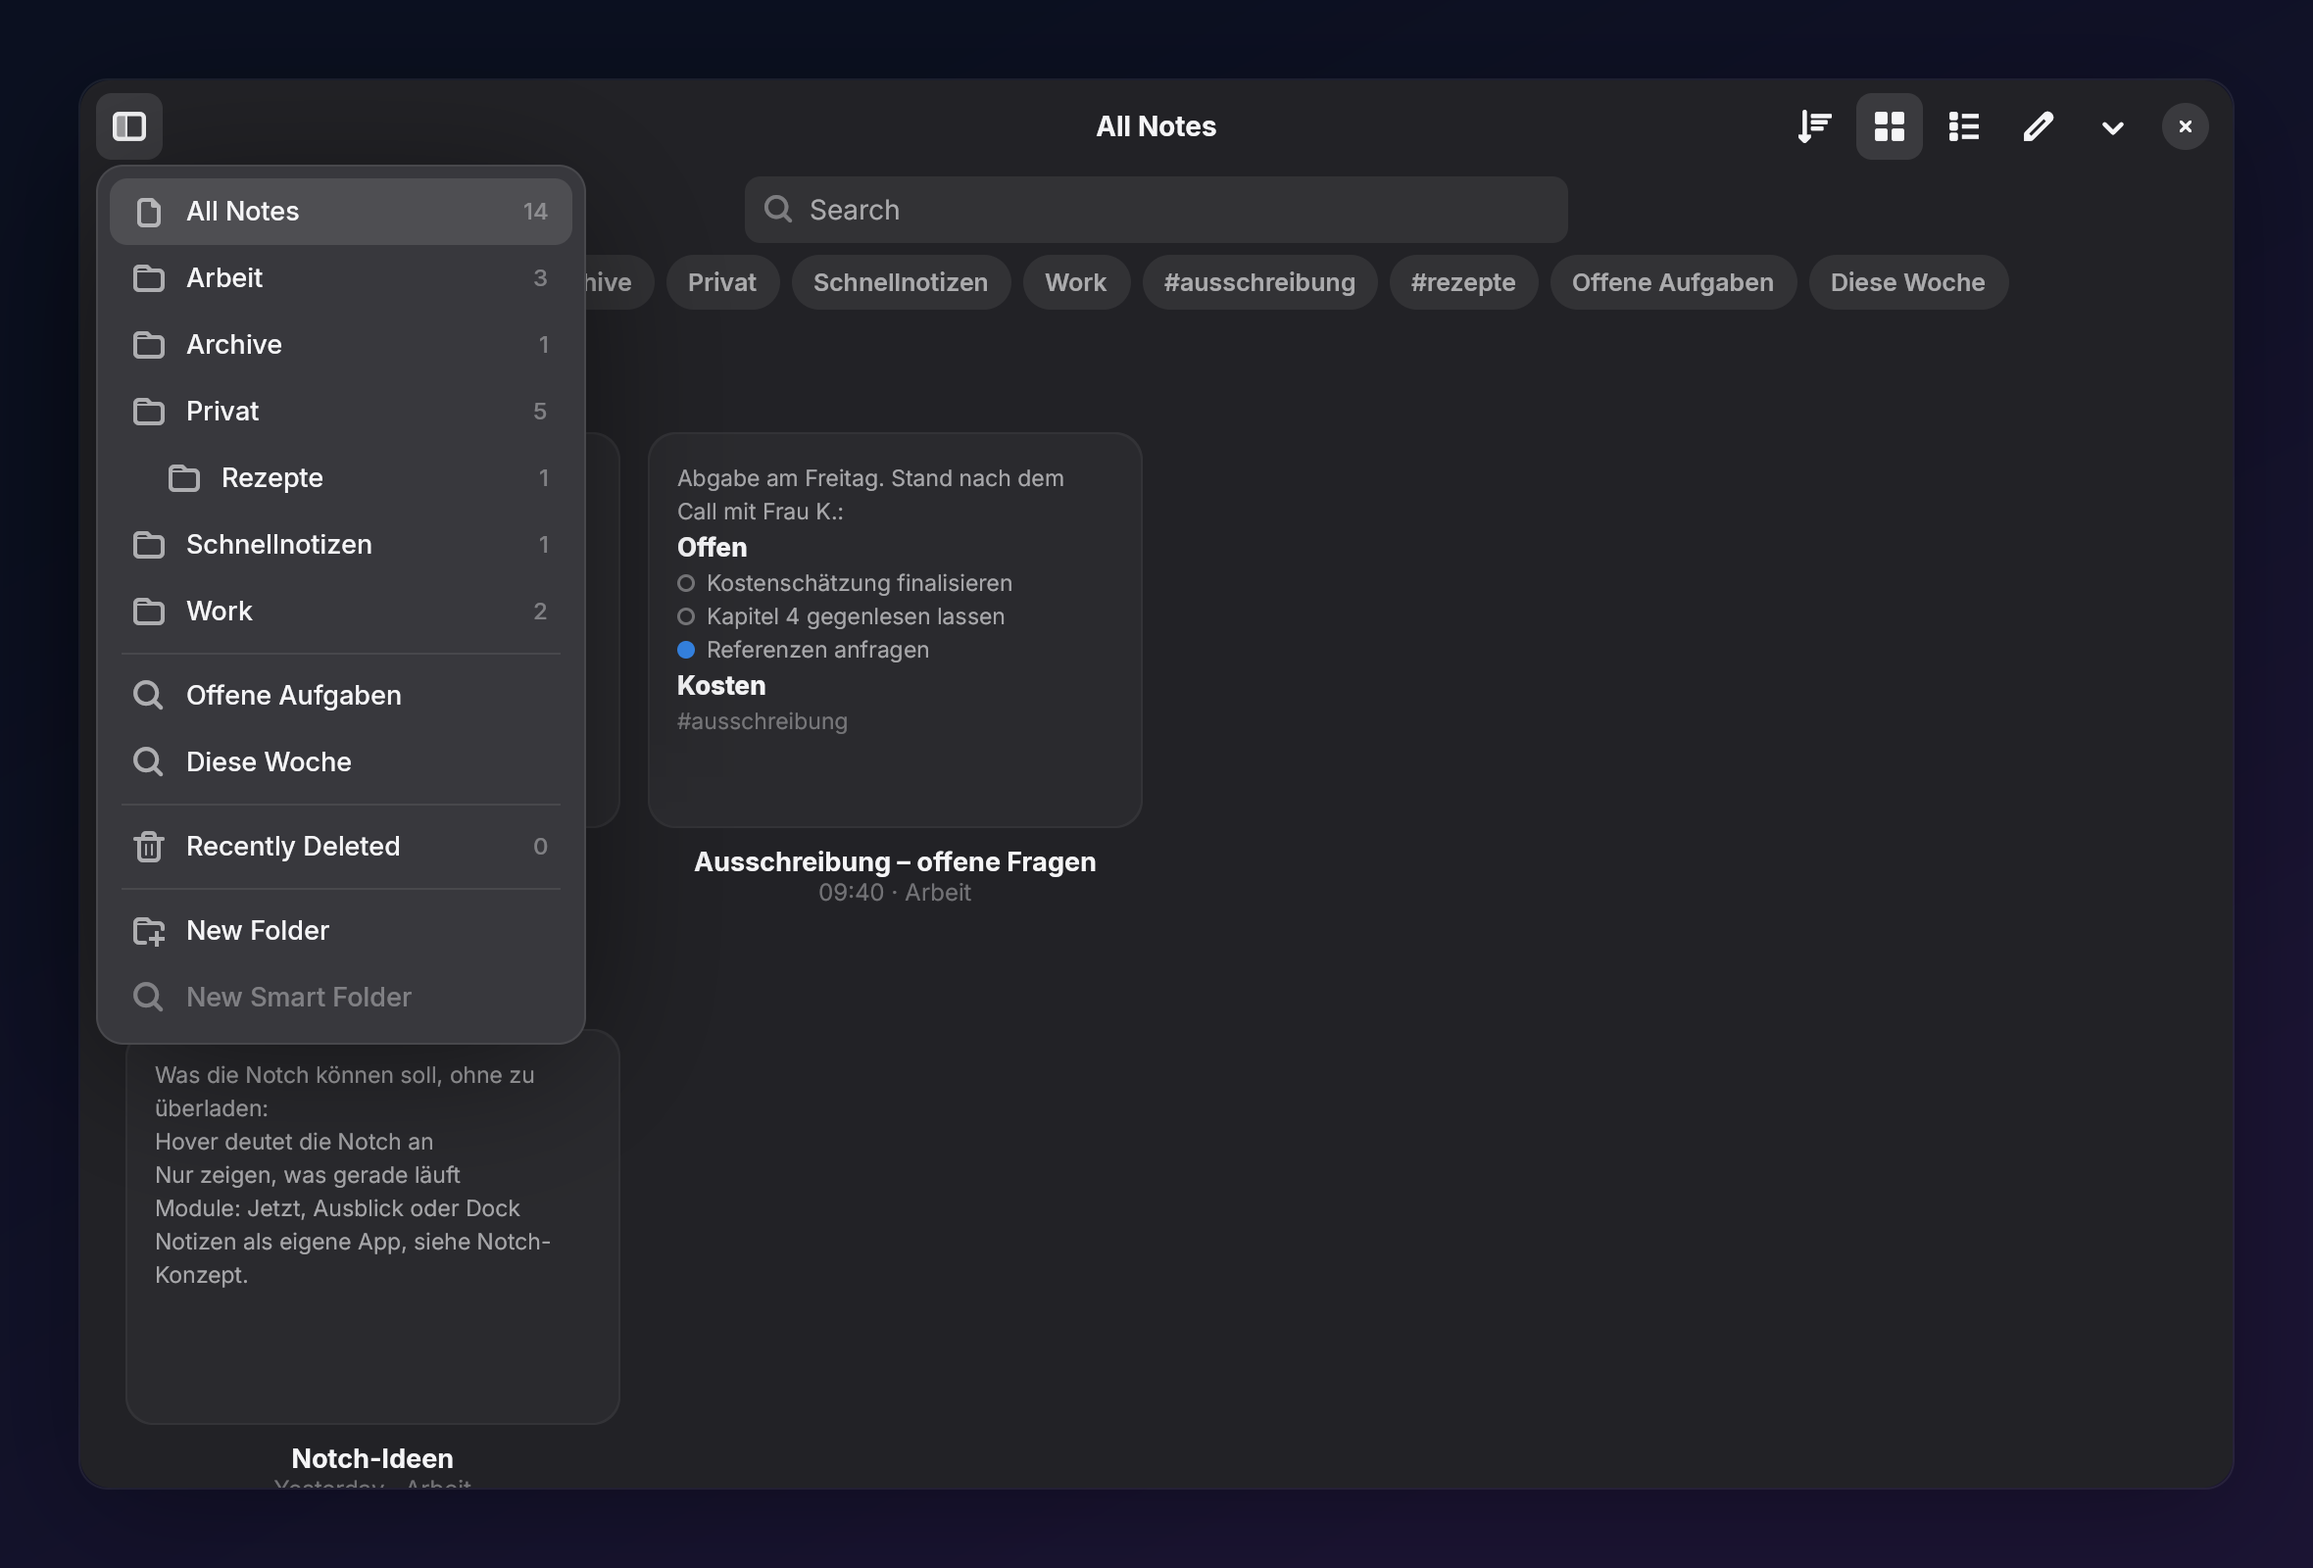
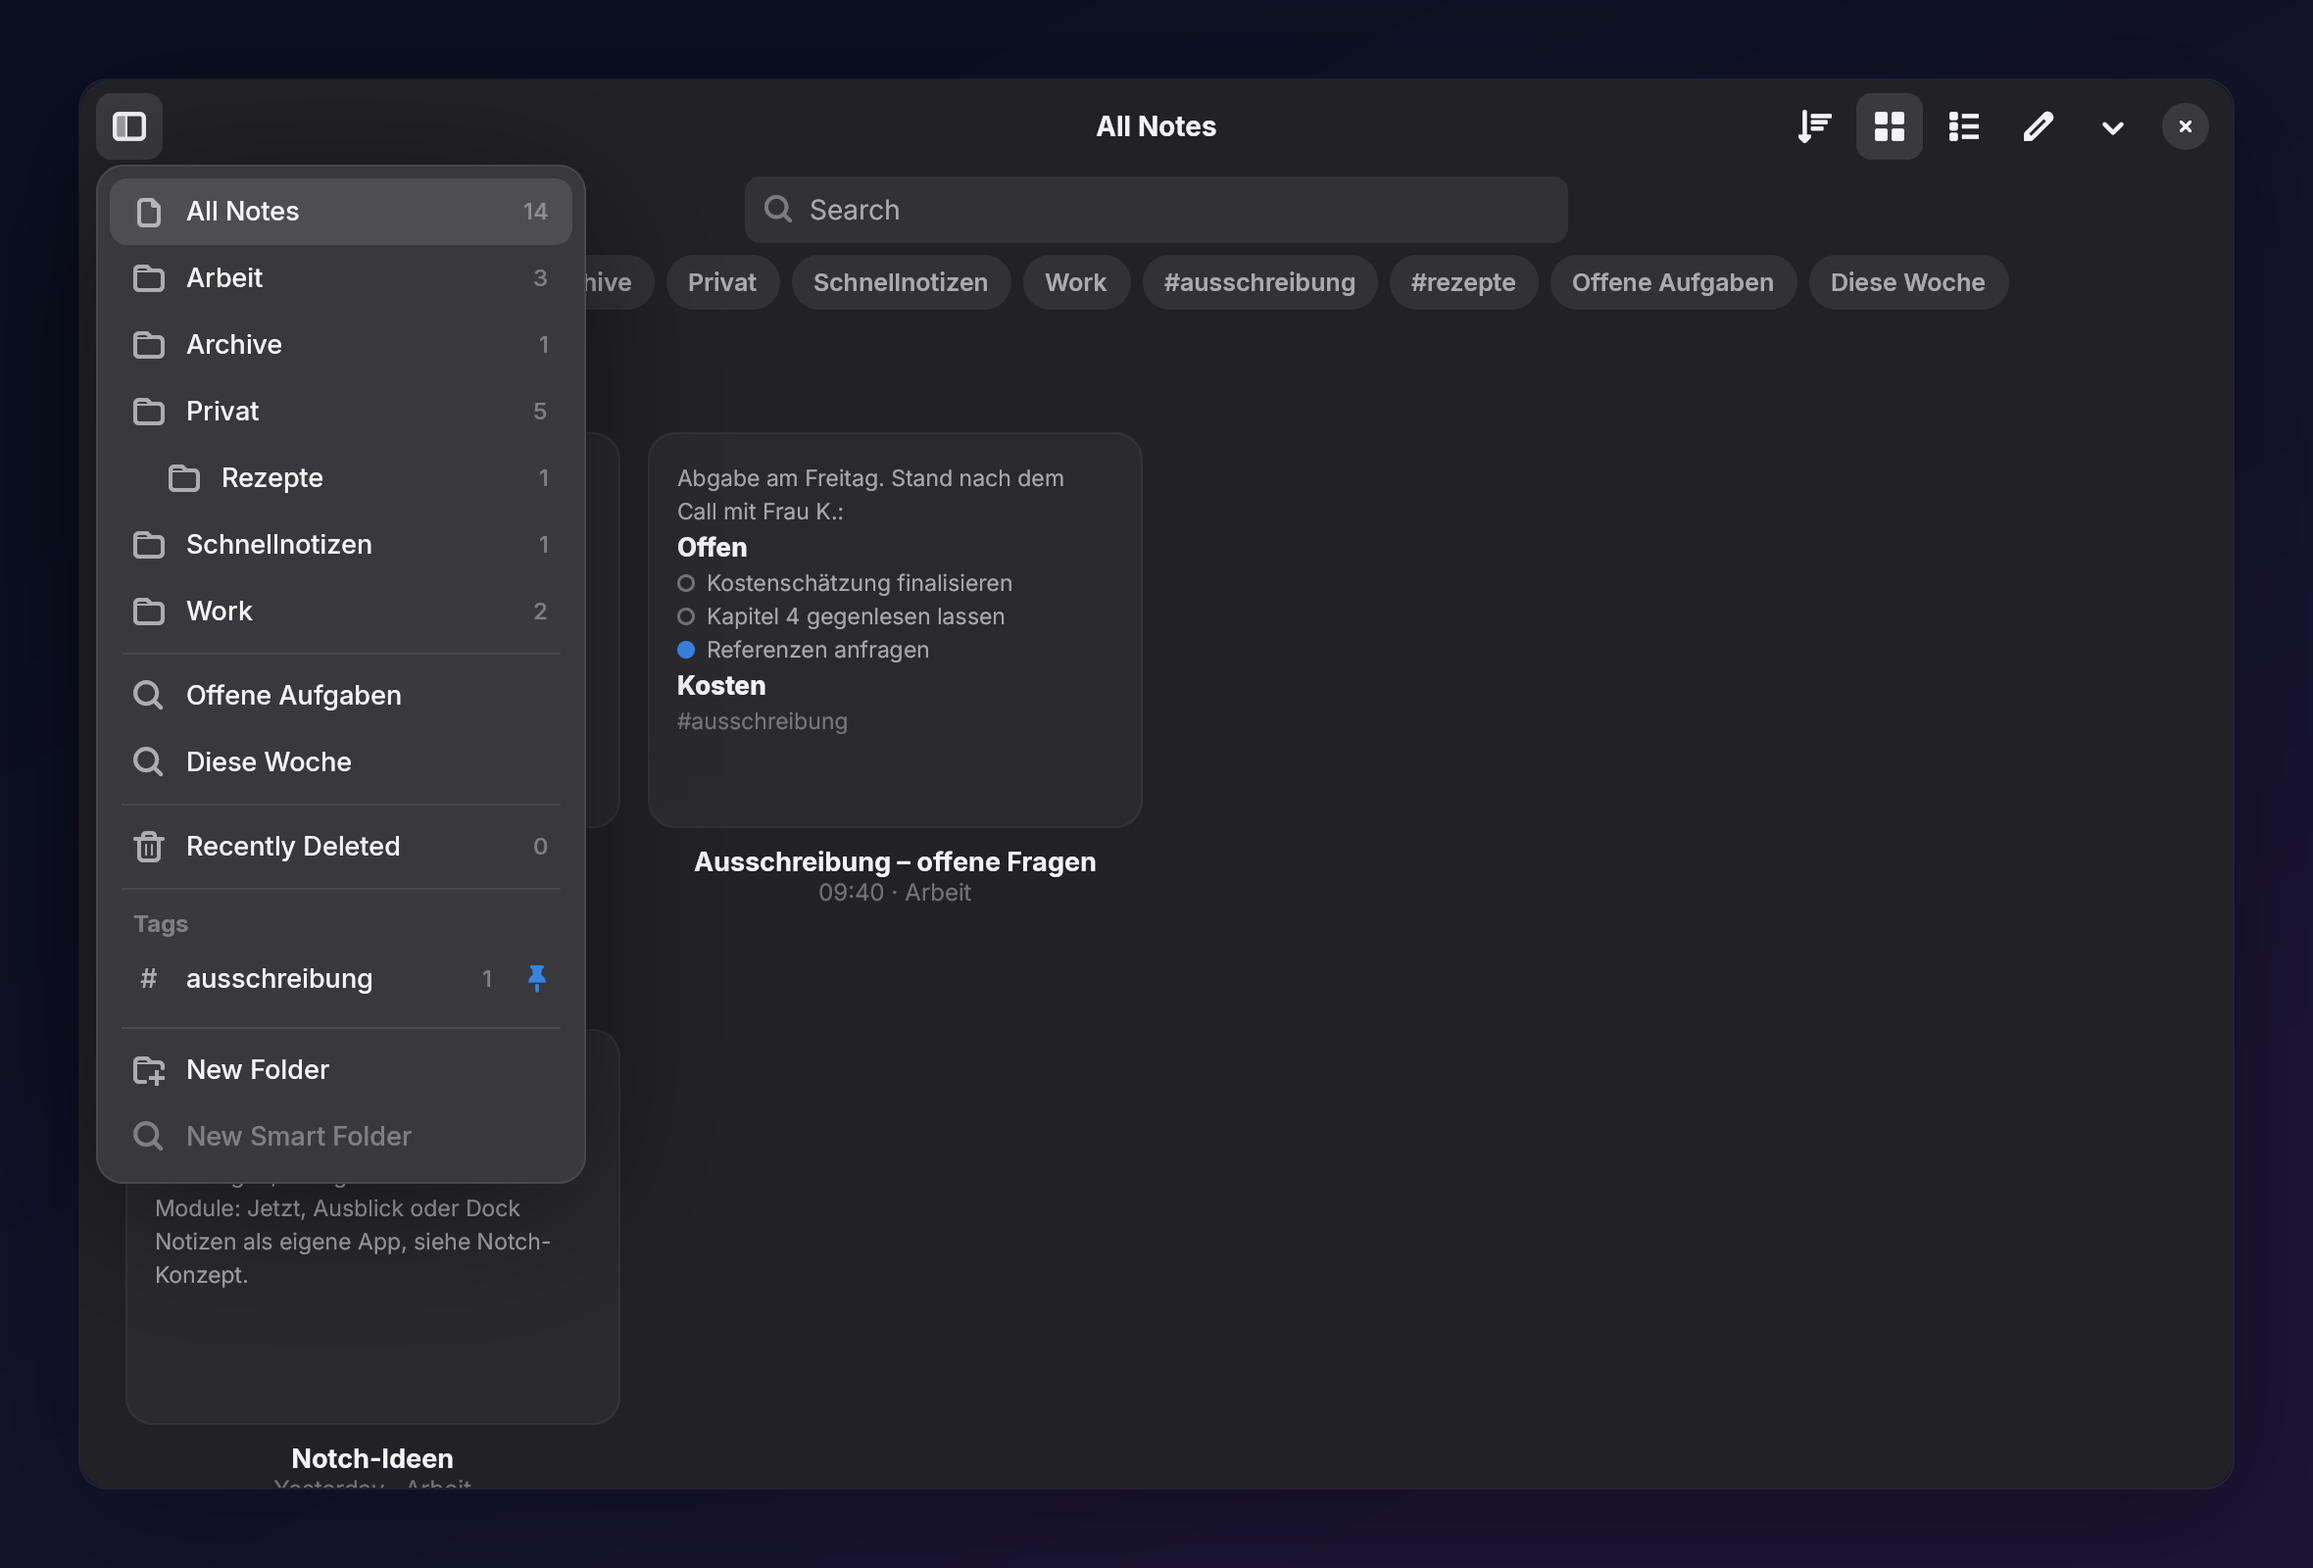
docs(screenshots): conflict badge and hint, tags, smart-folder symbols, folder menu
New scenes for what the review fixes made visible; the folder popover now
lists tags.

Changed region(s): [[0.0309, 0.5625, 0.2475, 0.7812]]

diff --git a/crates/sheaf/tests/screenshots.rs b/crates/sheaf/tests/screenshots.rs
@@ -122,7 +122,12 @@ type Scene = fn(&mut Stage);
 enum Folder {
     Seeded,
     Empty,
+    /// Seeded, and a sync tool's conflict copy of "Einkauf".
+    Conflict,
 }
+
+/// The conflict copy of [`Folder::Conflict`].
+const CONFLICT_COPY: &str = "Privat/Einkauf.sync-conflict-20261116-121500-K4XQ2ZP.md";
 
 const SCENES: &[(&str, Folder, Scene)] = &[
     ("gallery", Folder::Seeded, gallery),
@@ -145,6 +150,11 @@ const SCENES: &[(&str, Folder, Scene)] = &[
     ("note-template", Folder::Seeded, note_template),
     ("note-image", Folder::Seeded, note_image),
     ("note-find", Folder::Seeded, note_find),
+    ("gallery-conflict", Folder::Conflict, gallery),
+    ("note-sync-conflict", Folder::Conflict, note_sync_conflict),
+    ("gallery-smart-symbol", Folder::Seeded, gallery_smart_symbol),
+    ("gallery-folder-menu", Folder::Seeded, gallery_folder_menu),
+    ("gallery-tags", Folder::Seeded, gallery_tags),
 ];
 
 /// The start view as it opens.
@@ -183,6 +193,92 @@ fn gallery_folders(stage: &mut Stage) {
             gallery.set_popover(Some(GalleryPopover::Folders), cx)
         });
     });
+}
+
+/// The conflict copy open, with the hint under its date.
+fn note_sync_conflict(stage: &mut Stage) {
+    let id = stage.cx.update(|cx| {
+        let gallery = stage.main.read(cx).gallery().read(cx);
+        let copy = gallery.notes().iter().find(|note| note.conflict);
+        copy.expect("the conflict copy is listed").id.clone()
+    });
+    stage.update(|main, window, cx| main.open_note(id, String::new(), window, cx));
+}
+
+/// The name field of a new smart folder with its symbols, one of them chosen.
+fn gallery_smart_symbol(stage: &mut Stage) {
+    stage.update(|main, window, cx| {
+        main.gallery().update(cx, |gallery, cx| {
+            gallery.set_query("#urlaub", cx);
+            gallery.ask_smart_folder_name(window, cx);
+            gallery.choose_smart_icon("emoji-travel-symbolic", cx);
+        });
+    });
+}
+
+/// The tags at the end of the folder popover, scrolled to, one pinned by its pin.
+fn gallery_tags(stage: &mut Stage) {
+    stage.update(|main, _, cx| {
+        main.gallery().update(cx, |gallery, cx| {
+            gallery.set_popover(Some(GalleryPopover::Folders), cx);
+            gallery.set_tag_pinned("garten", true, cx);
+        });
+    });
+    stage
+        .cx
+        .update_window(stage.window, |_, window, cx| window.draw(cx).clear(cx))
+        .expect("failed to draw");
+    let over_the_lists = point(px(MARGIN + 120.), px(MARGIN + 300.));
+    let scroll = gpui::PlatformInput::Scroll(gpui::ScrollEvent {
+        position: over_the_lists,
+        delta: gpui::ScrollDelta::Pixels(point(px(0.), px(-400.))),
+        ..Default::default()
+    });
+    stage
+        .cx
+        .update_window(stage.window, |_, window, cx| {
+            window.dispatch_event(scroll, cx);
+        })
+        .expect("the window is open");
+    stage.cx.run_until_parked();
+}
+
+/// The context menu of a folder in the folder popover.
+fn gallery_folder_menu(stage: &mut Stage) {
+    stage.update(|main, _, cx| {
+        main.gallery().update(cx, |gallery, cx| {
+            gallery.set_popover(Some(GalleryPopover::Folders), cx)
+        });
+    });
+    stage
+        .cx
+        .update_window(stage.window, |_, window, cx| window.draw(cx).clear(cx))
+        .expect("failed to draw");
+    // "Arbeit", the row under "All Notes": the window is inset by the wallpaper, the
+    // popover hangs under the header bar, and its rows are 34 px high.
+    let at = point(px(MARGIN + 60.), px(MARGIN + 47. - 4. + 7. + 34. + 17.));
+    for event in [
+        gpui::PlatformInput::MouseDown(gpui::MouseDownEvent {
+            button: gpui::MouseButton::Right,
+            position: at,
+            click_count: 1,
+            ..Default::default()
+        }),
+        gpui::PlatformInput::MouseUp(gpui::MouseUpEvent {
+            button: gpui::MouseButton::Right,
+            position: at,
+            click_count: 1,
+            ..Default::default()
+        }),
+    ] {
+        stage
+            .cx
+            .update_window(stage.window, |_, window, cx| {
+                window.dispatch_event(event, cx);
+            })
+            .expect("the window is open");
+        stage.cx.run_until_parked();
+    }
 }
 
 /// "Recently Deleted" with three notes deleted on different days.
@@ -553,6 +649,12 @@ fn capture(name: &str, dark: bool, folder: Folder, scene: Scene) {
     let notes = match folder {
         Folder::Seeded => Notes::seeded(),
         Folder::Empty => Notes::empty(),
+        Folder::Conflict => {
+            let notes = Notes::seeded();
+            let text = "Einkauf\n\n- [ ] Milch\n- [ ] Brot\n- [x] Kaffeebohnen\n";
+            notes.write_at(CONFLICT_COPY, text, 70);
+            notes
+        }
     };
     let (mut cx, library) = headless(dark, &notes);
 
@@ -578,7 +680,11 @@ fn capture(name: &str, dark: bool, folder: Folder, scene: Scene) {
     let listed = stage
         .cx
         .update(|cx| library.read(cx).notes(Vec::new(), Sort::Modified, cx));
-    let expected = if folder == Folder::Seeded { 14 } else { 0 };
+    let expected = match folder {
+        Folder::Seeded => 14,
+        Folder::Empty => 0,
+        Folder::Conflict => 15,
+    };
     assert_eq!(pollster(&stage.cx, listed).len(), expected);
 
     scene(&mut stage);

diff --git a/crates/sheaf/tests/fixture/mod.rs b/crates/sheaf/tests/fixture/mod.rs
@@ -183,16 +183,8 @@ impl Notes {
     /// The folder with the notes of [`SEEDS`], last modified at fixed times.
     pub fn seeded() -> Self {
         let notes = Self::empty();
-        let now: Timestamp = NOW.parse().unwrap();
-        let now = SystemTime::UNIX_EPOCH + Duration::from_secs(now.as_second().unsigned_abs());
         for seed in SEEDS {
-            notes.write(seed.path, seed.text);
-            let modified = now - Duration::from_secs(seed.minutes_ago * 60);
-            let file = File::options()
-                .write(true)
-                .open(notes.dir.join(seed.path))
-                .unwrap();
-            file.set_modified(modified).unwrap();
+            notes.write_at(seed.path, seed.text, seed.minutes_ago);
         }
         for (path, bytes) in COVERS {
             fs::create_dir_all(notes.dir.join(path).parent().unwrap()).unwrap();
@@ -206,6 +198,19 @@ impl Notes {
         let path = self.dir.join(rel_path);
         fs::create_dir_all(path.parent().unwrap()).unwrap();
         fs::write(path, text).unwrap();
+    }
+
+    /// Writes a file last modified `minutes_ago` before [`NOW`].
+    pub fn write_at(&self, rel_path: &str, text: &str, minutes_ago: u64) {
+        self.write(rel_path, text);
+        let now: Timestamp = NOW.parse().unwrap();
+        let now = SystemTime::UNIX_EPOCH + Duration::from_secs(now.as_second().unsigned_abs());
+        let file = File::options()
+            .write(true)
+            .open(self.dir.join(rel_path))
+            .unwrap();
+        file.set_modified(now - Duration::from_secs(minutes_ago * 60))
+            .unwrap();
     }
 
     pub fn read(&self, rel_path: &str) -> String {
